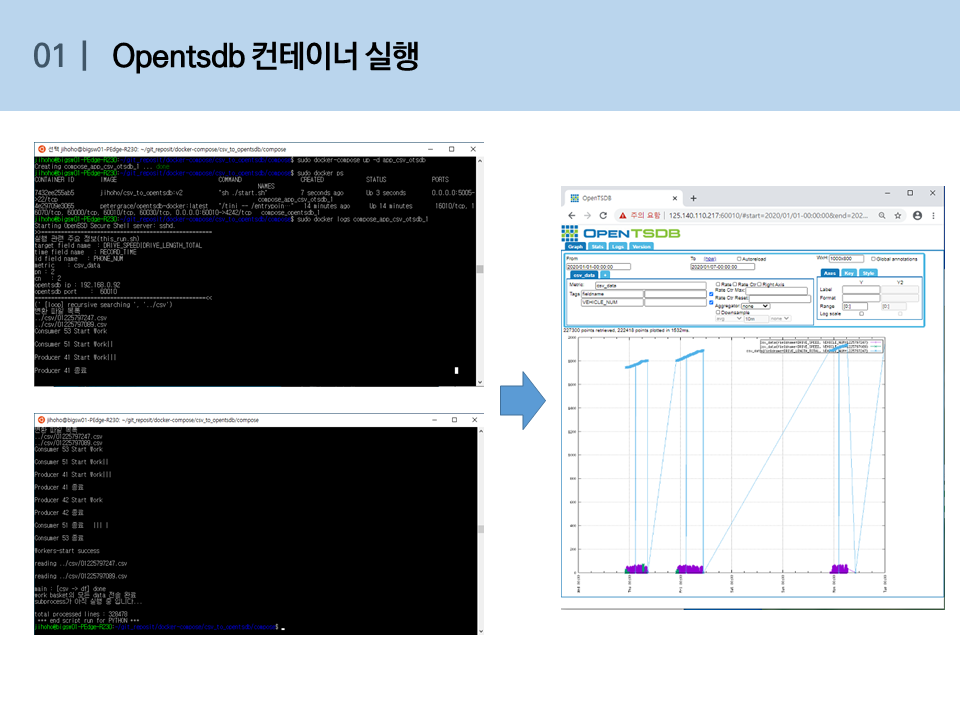
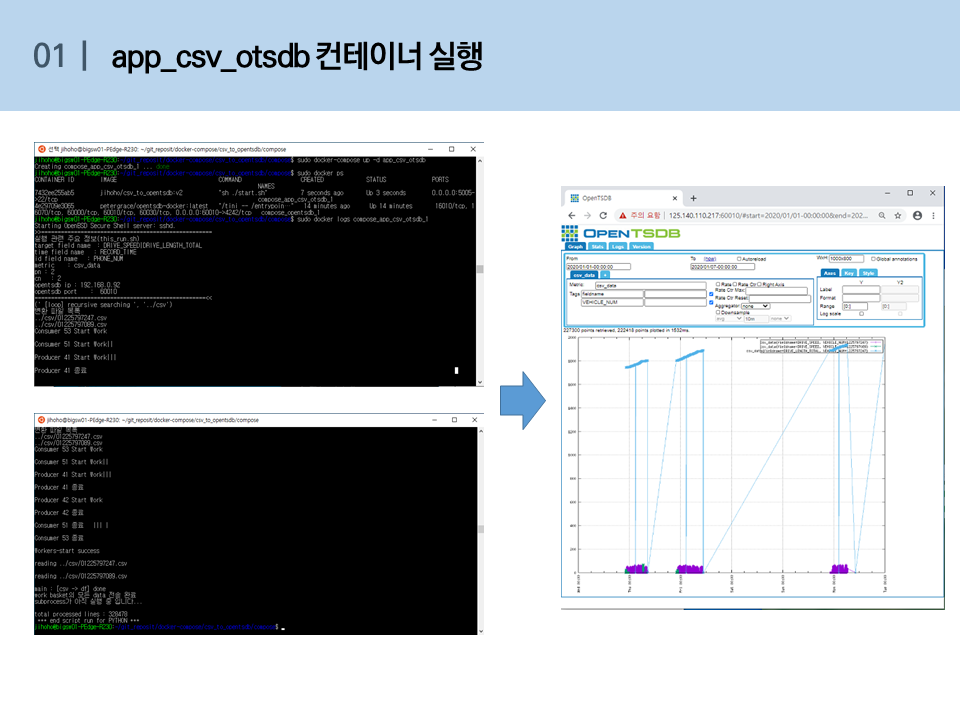
edit md file

Changed region(s): [[0.0938, 0.0611, 0.5, 0.1222]]

diff --git a/csv_to_opentsdb/README.md b/csv_to_opentsdb/README.md
@@ -26,69 +26,84 @@ host에서  csv 파일을 읽어 docker opentsdb container로 push
   
             $ cd docker-compose/csv_to_opentsdb/compose/
   
+  
   3. docker-compose.yml파일 수정(수정할 내용은 하단에 기재)
+
+      - host ip 확인
+
+            리눅스 – ifcongif
+            윈도우(cmd/powershell) – ipconfig
+            윈도우(docker-toolbox) – docker machine ip
+
       - 필수 수정부분 설명
-            # Author : HojunJi
-            
-            version: '3'
-            
-            services: 
-                opentsdb:
-                  image: petergrace/opentsdb-docker:latest
-                  restart: always
-                  ports:
-                      - "[포트포워딩 포트]:4242"
-                  #environment:
-                  #    - WAITSECS=30   
-            
-                app_csv_otsdb:
-                  image: jihoho/csv_to_opentsdb:v2
-                  ports:
-                    - "5005:22"
-                  volumes:
-                    - "./app_csv2ots_volume:/app/CSV2TSDB/"
-                    - "[csv파일 디렉터리]:/app/csv"
-                  environment:
-                    - IP_ADD=[호스트 IP]
-                    - PORT=[opentsdb포트포워딩 포트]
-                    - FIELDNAME=[opentsdb로 push할 field 이름]
-                    - IDFIELD=[id field 이름]
-                    - TIMEFIELD=[time field 이름]
-                    - METRIC=[opentsdb metric 이름]
-                    - PN=[producer process 수]
-                    - CN=[consumer process 수]
+        
+        
+        
+        ```
+        # Author : HojunJi
+        
+        version: '3'
+        
+        services: 
+            opentsdb:
+              image: petergrace/opentsdb-docker:latest
+              restart: always
+              ports:
+                  - "[포트포워딩 포트]:4242"
+              #environment:
+              #    - WAITSECS=30   
+        
+            app_csv_otsdb:
+              image: jihoho/csv_to_opentsdb:v2
+              ports:
+                - "5005:22"
+              volumes:
+                - "./app_csv2ots_volume:/app/CSV2TSDB/"
+                - "[csv파일 디렉터리]:/app/csv"
+              environment:
+                - IP_ADD=[호스트 IP]
+                - PORT=[opentsdb포트포워딩 포트]
+                - FIELDNAME=[opentsdb로 push할 field 이름]
+                - IDFIELD=[id field 이름]
+                - TIMEFIELD=[time field 이름]
+                - METRIC=[opentsdb metric 이름]
+                - PN=[producer process 수]
+                - CN=[consumer process 수]
+        ```
         
            ex)
         
-            # Author : HojunJi
-            
-            version: '3'
-            
-            services: 
-                opentsdb:
-                  image: petergrace/opentsdb-docker:latest
-                  restart: always
-                  ports:
-                      - "60010:4242"
-                  #environment:
-                  #    - WAITSECS=30   
-            
-                app_csv_otsdb:
-                  image: jihoho/csv_to_opentsdb:v2
-                  ports:
-                    - "5005:22"
-                  volumes:
-                    - "./app_csv2ots_volume:/app/CSV2TSDB/"
-                    - "./csv:/app/csv"
-                  environment:
-                    - IP_ADD=192.168.0.92
-                    - PORT=60010
-                    - FIELDNAME=DRIVE_SPEED|DRIVE_LENGTH_TOTAL
-                    - IDFIELD=PHONE_NUM
-                    - TIMEFIELD=RECORD_TIME
-                    - METRIC=csv_data
-                    - PN=2
-                    - CN=2
+        ```
+        # Author : HojunJi
+        
+        version: '3'
+        
+        services: 
+            opentsdb:
+              image: petergrace/opentsdb-docker:latest
+              restart: always
+              ports:
+                  - "60010:4242"
+              #environment:
+              #    - WAITSECS=30   
+        
+            app_csv_otsdb:
+              image: jihoho/csv_to_opentsdb:v2
+              ports:
+                - "5005:22"
+              volumes:
+                - "./app_csv2ots_volume:/app/CSV2TSDB/"
+                - "./csv:/app/csv"
+              environment:
+                - IP_ADD=192.168.0.92
+                - PORT=60010
+                - FIELDNAME=DRIVE_SPEED|DRIVE_LENGTH_TOTAL
+                - IDFIELD=PHONE_NUM
+                - TIMEFIELD=RECORD_TIME
+                - METRIC=csv_data
+                - PN=2
+                - CN=2
+        ```
 
   4. docker-compose로 opentsdb container 실행
 
@@ -106,34 +121,23 @@ host에서  csv 파일을 읽어 docker opentsdb container로 push
 
   - csv_to_opentsdb docker-compose 전체 구조 및 실행 화면
 
-    ![opentsdb](./image/image1.png)
+    ![opentsdb](./image/image1.PNG)
     
-    ![csv2ots](./image/image2.png)
+    ![csv2ots](./image/image2.PNG)
     
-    ![csv2ots](./image/image3.png)
+    ![csv2ots](./image/image3.PNG)
 
 ## 코드 수정
-  docker-compose.yml 파일에서 app의 볼룸공유 디렉토리의 원하는 파일 editor로 수정가능
+    cd app_csv2ots_volume/      # 디렉토리 이동
+    vim this_run.sh                # 코드 수정
+    docker ps –a                    # 컨테이너 Name 확인
 
 ## 수정한코드 실행
-    docker restart <app container name>
+    docker exec <컨테이너 name> bash /app/CSV2TSDB/this_run.sh   # 실행
+
+
 
 ## 컨테이너 ssh 접속
+
     ssh root@[<호스트 ip> or <docker-toolbox ip>] -p <사용자가 지정한 포트번호>
 
-
-    
-## 실행결과
-
-  - opentsdb web 접속
-
-      http://<host_ip>:<60010>
-      
-  - 아래 정보 입력
-    
-        From : 2019/06/03
-        To : 2019/06/04
-        Metric : Elex_data_origin_test
-        Aggregator: None	
-
-      ![result](./image/2.PNG)
